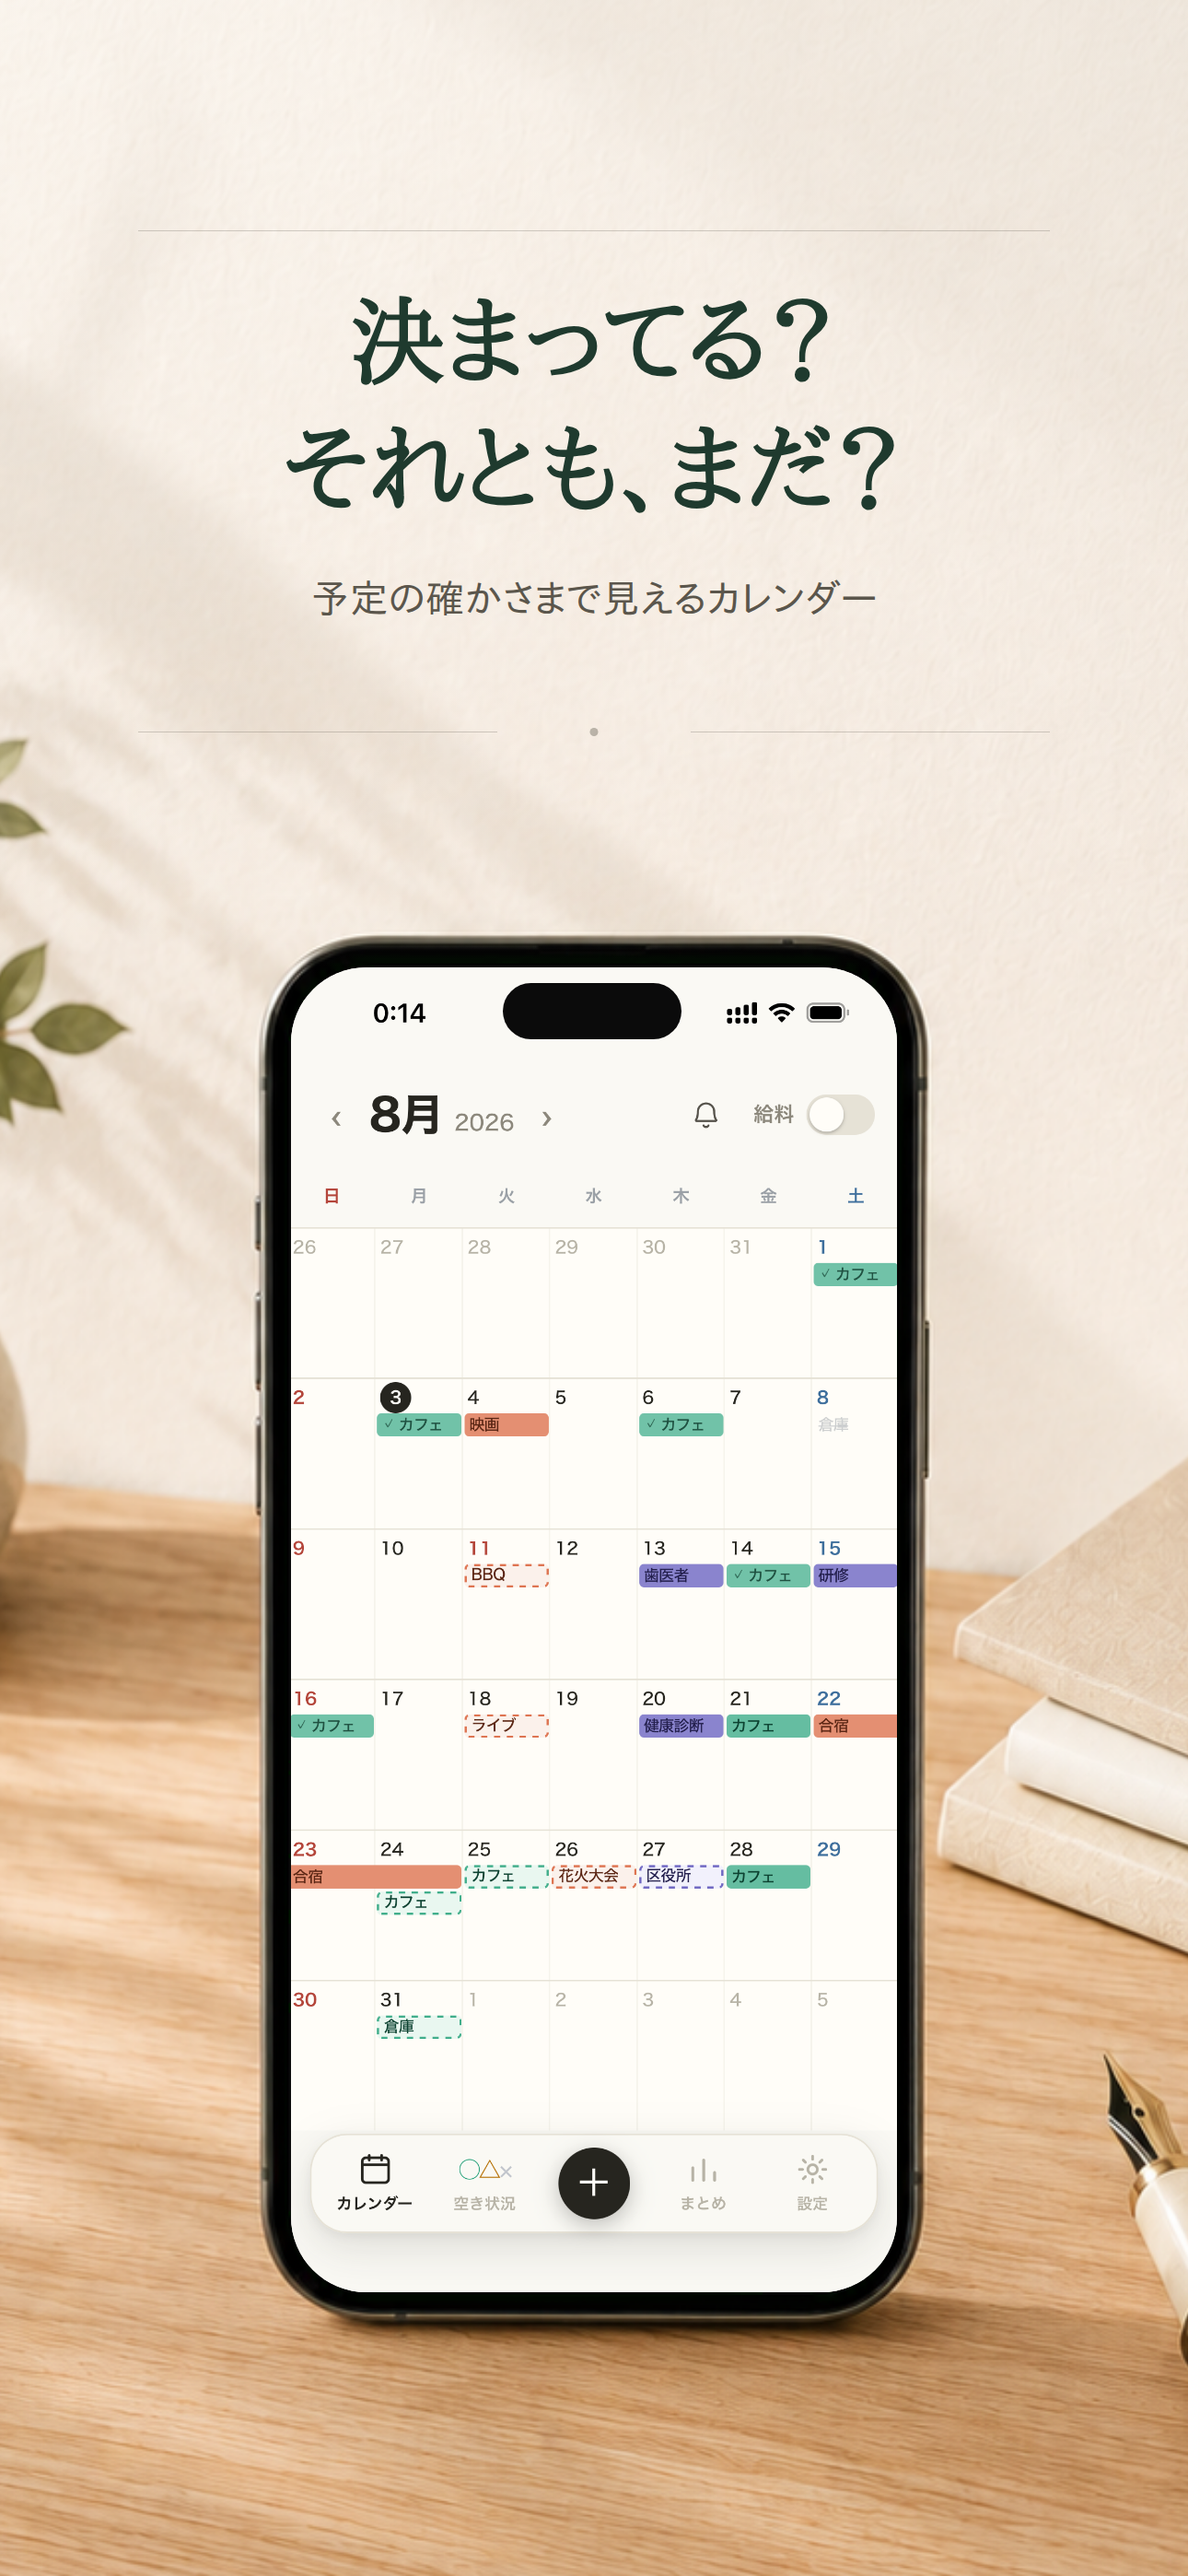
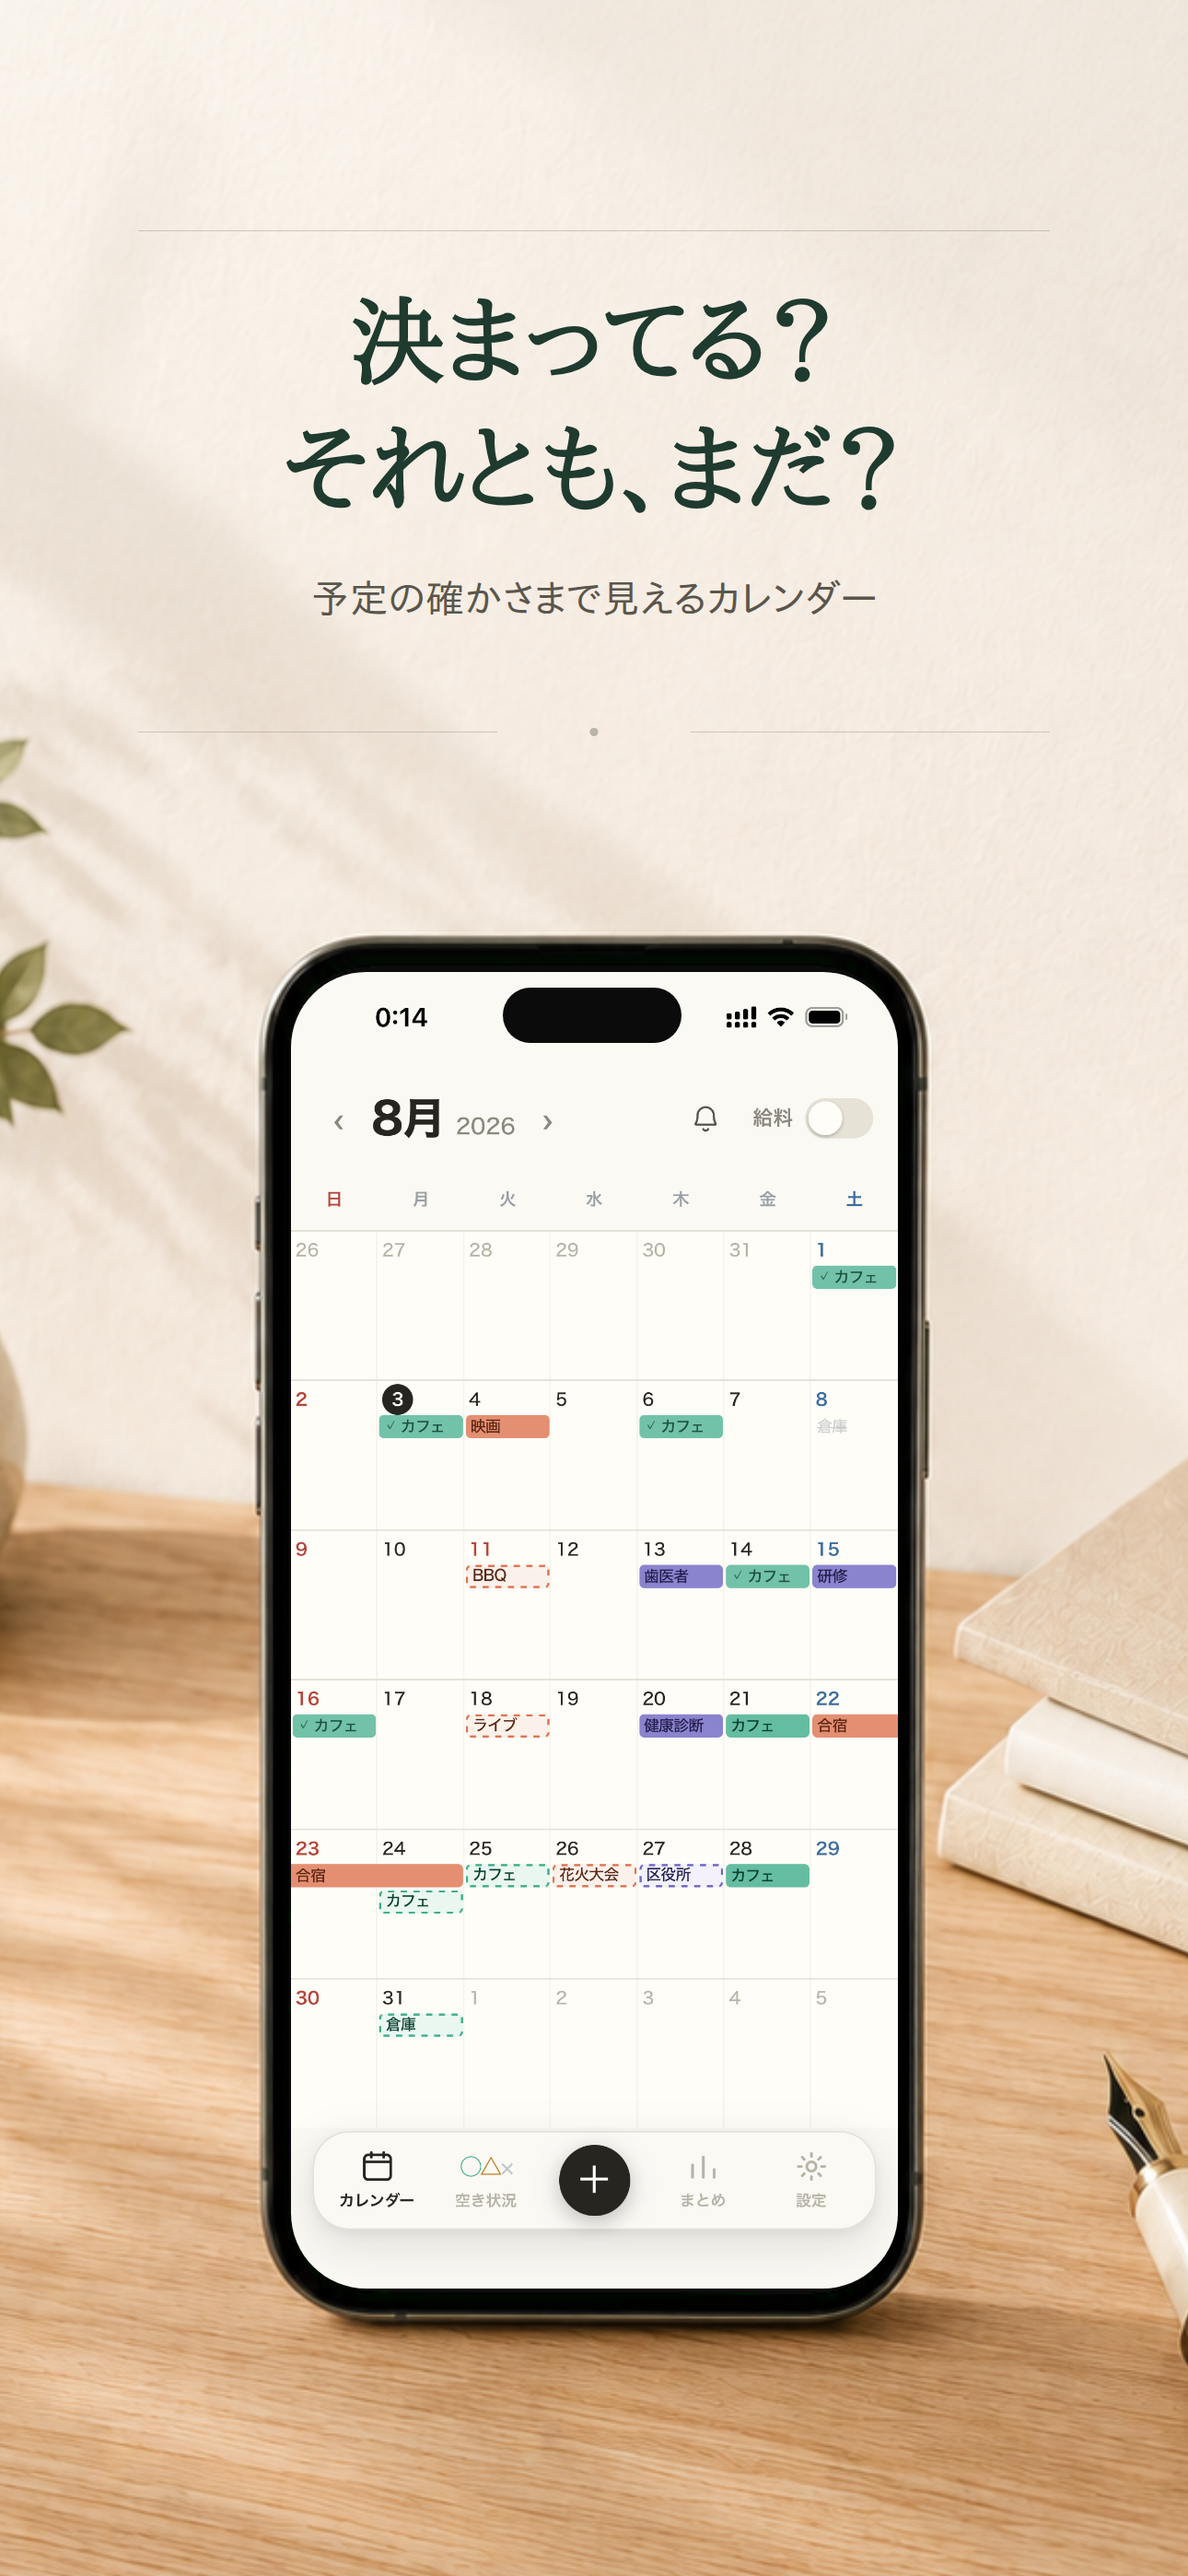
掲載画像の背景を2種類にし、画面が切れていたのを直す
5枚とも同じ背景だと一覧で単調に見えるので、背景を2種類にした。
1・2枚目が万年筆の机、3〜5枚目がノートと鉛筆の机。
一覧で見えるのは最初の2枚だけなので、そこは同じ絵で通して主張を固め、
後半で場面を変える。端末の大きさと高さは5枚とも揃えてあり、
「同じ撮影の別カット」に見えるようにしている（バラバラだと寄せ集めに見える）。

あわせて、画面の中身が左右で切れていたのを直した。

生成される端末は、画面の縦横比がまちまちだった。
  実機のキャプチャ  0.4613
  背景1の緑        0.4581  ← ほぼ一致
  背景2の緑        0.4360  ← 細長い
枠に合わせて切る（object-fit:cover）と、背景2では左右が38px切れ、
日付が「26」→「6」のように欠けていた。

比率を保ったまま上下中央に置き、余りは上下のベゼルの厚みとして見せる形にした。
引き伸ばす手もあったが、縦に5.8%伸びる。カレンダーの升目と文字が
わずかに縦長になるので、ベゼルが少し厚く見えるほうを選んだ。
5枚とも 659×1429・比率0.4612・伸び率1.000。

枠を下げたとき Dynamic Island が追従せず、ベゼル側に取り残されていたのも直した。

背景ごとの実測値（緑の領域・島の位置・角丸）は card.html の冒頭に置いてある。
背景を足すときはそこに入れる。

Claude-Session: https://claude.ai/code/session_01Lj7neatzxSibcNeHVWyy53

diff --git a/store-assets/store-cards-src/card.html b/store-assets/store-cards-src/card.html
@@ -1,68 +1,72 @@
 <!DOCTYPE html>
 <html lang="ja"><head><meta charset="UTF-8">
 <style>
-/* 背景は生成した写真（端末ごと）。緑ベタの領域だけを実機キャプチャに差し替える。
-   背景は 853×1844 なので cover で 1.51627 倍に拡大され、横に3.4px はみ出す（左に-1.7px） */
+/* 背景は生成した写真（端末ごと）。緑ベタだった領域に実機キャプチャを差し込む。
+   背景ごとに端末の位置・大きさが違うので、画面の幅が常に同じになるよう寄せる。 */
 *{margin:0;padding:0;box-sizing:border-box}
 html,body{width:1290px;height:2796px;overflow:hidden}
-.art{position:relative;width:1290px;height:2796px;overflow:hidden;
-  background:url("bg-phone-clean.png") no-repeat;
-  background-size:1293.4px 2796px; background-position:-1.7px 0;}
-
-/* 上の文字が乗る面を、ごくわずかに起こす */
+.art{position:relative;width:1290px;height:2796px;overflow:hidden;background-repeat:no-repeat}
 .veil{position:absolute;left:0;right:0;top:0;height:1060px;
-  background:linear-gradient(rgba(252,250,245,.46),rgba(252,250,245,.16) 70%,rgba(252,250,245,0));}
-
+  background:linear-gradient(rgba(252,250,245,.46),rgba(252,250,245,.16) 70%,rgba(252,250,245,0))}
 .rule{position:absolute;left:150px;right:150px;height:1px;background:rgba(60,55,45,.22);top:250px}
 .rule2{position:absolute;height:1px;background:rgba(60,55,45,.22);width:390px}
 .rule2.l{left:150px} .rule2.r{right:150px}
 .dot{position:absolute;left:50%;transform:translateX(-50%);width:9px;height:9px;
   border-radius:50%;background:rgba(60,55,45,.32)}
-
 .head{position:absolute;left:96px;right:96px;text-align:center}
 h1{font-family:"IPAPMincho","IPAMincho",serif;font-size:104px;line-height:1.34;
    font-weight:700;color:#1F3A2E;letter-spacing:.01em}
 .sub{margin-top:34px;font-family:"IPAPGothic","IPAGothic",sans-serif;
    font-size:42px;line-height:1.75;color:#5B564C}
-
-/* 実測した緑の領域にキャプチャをはめる */
-.screen{position:absolute;left:430.4px;top:921.9px;width:464px;height:1013px;
-  overflow:hidden;border-radius:57.6px;background:#FAF9F4}
-.screen img{width:100%;height:100%;object-fit:cover;object-position:top;display:block}
-
-/* 島を写真から切り出して上に戻す（背景と同じ拡大率・位置で貼るとぴたりと合う） */
+.screen{position:absolute;overflow:hidden;background:#FAF9F4}
+.screen img{display:block;width:100%}
 .island{position:absolute;background:#0B0B0B;border-radius:999px}
 </style></head>
 <body>
 <div class="art">
-  <div class="veil"></div>
-  <div class="rule"></div>
+  <div class="veil"></div><div class="rule"></div>
   <div class="rule2 l" id="r2l"></div><div class="rule2 r" id="r2r"></div><div class="dot" id="dot"></div>
   <div class="head" id="head"><h1 id="h1"></h1><div class="sub" id="sub"></div></div>
-  <div class="screen"><img id="cap"></div>
-  <div class="island"></div>
+  <div class="screen" id="sc"><img id="cap"></div>
+  <div class="island" id="is"></div>
 </div>
 <script>
-  const p=new URLSearchParams(location.search);
-  // 1x のときの実測値（背景 853×1844 を cover で 1290×2796 に伸ばした座標）
-  const BW=1293.4, BH=2796, BX=-1.7;
-  const S={l:430.4,t:921.9,w:464,h:1013};        // 画面（緑だった領域）
-  const I={dx:162.3,dy:12.1,w:136.5,h:42.5};     // 島（画面の左上からの相対）
-  const k=Number(p.get('zoom')||1);
-  const sw=S.w*k, sh=S.h*k;
-  const sl=(1290-sw)/2, st=Number(p.get('py')||S.t);
-  const art=document.querySelector('.art');
-  art.style.backgroundSize=(BW*k)+'px '+(BH*k)+'px';
-  art.style.backgroundPosition=(sl-(S.l-BX)*k)+'px '+(st-S.t*k)+'px';
-  const sc=document.querySelector('.screen');
-  sc.style.cssText+=`left:${sl}px;top:${st}px;width:${sw}px;height:${sh}px;border-radius:${57.6*k}px`;
-  const is=document.querySelector('.island');
-  is.style.cssText+=`left:${sl+I.dx*k}px;top:${st+I.dy*k}px;width:${I.w*k}px;height:${I.h*k}px`;
-  h1.innerHTML=(p.get('h')||'').replace(/\|/g,'<br>');
-  sub.innerHTML=(p.get('s')||'').replace(/\|/g,'<br>');
-  cap.src=p.get('cap')||'cap-1096.png';
-  head.style.top=(p.get('ht')||'300')+'px';
-  const dt=Number(p.get('dt')||790);
-  dot.style.top=dt+'px'; r2l.style.top=(dt+4)+'px'; r2r.style.top=(dt+4)+'px';
+// 背景ごとの実測値。緑の領域・島の位置・画面の角丸を、写真から測って入れてある。
+// 背景を差し替えたら測り直すこと（tools の計測スクリプトが同じ形の値を出す）。
+const BG = {
+  bg1: {img:'bg1-clean.png', BW:1293.4, BH:2796, BX:-1.7,
+        S:{l:430.4,t:921.9,w:464.0,h:1012.9}, I:{dx:162.2,dy:12.1,w:136.5,h:42.5}, r:57.6},
+  bg2: {img:'bg2-clean.png', BW:1293.4, BH:2796, BX:-1.7,
+        S:{l:439.5,t:935.5,w:418.5,h:959.8}, I:{dx:150.1,dy:12.1,w:122.8,h:39.4}, r:57.6},
+  bg3: {img:'bg3-clean.png', BW:1293.4, BH:2796, BX:-1.7,
+        S:{l:441.1,t:920.4,w:438.2,h:982.5}, I:{dx:157.7,dy:12.1,w:127.4,h:40.9}, r:60.7},
+};
+const p=new URLSearchParams(location.search);
+const b=BG[p.get('bg')||'bg1'];
+// 5枚で端末の大きさと高さをそろえる。背景ごとに元の大きさが違うので、ここで吸収する。
+const TARGET_W=Number(p.get('sw')||659), TOP=Number(p.get('py')||1050);
+const k=TARGET_W/b.S.w;
+const sw=b.S.w*k, sh=b.S.h*k, sl=(1290-sw)/2;
+const art=document.querySelector('.art');
+art.style.backgroundImage=`url("${b.img}")`;
+art.style.backgroundSize=(b.BW*k)+'px '+(b.BH*k)+'px';
+art.style.backgroundPosition=(sl-(b.S.l-b.BX)*k)+'px '+(TOP-b.S.t*k)+'px';
+const CAP_RATIO=1179/2556;          // 実機キャプチャの縦横比
+const fit=p.get('fit')||'stretch';
+const imgH=sw/CAP_RATIO;            // 幅を合わせたときのキャプチャの高さ
+let boxTop=TOP, boxH=sh;
+if(fit==='keep'){ boxH=imgH; boxTop=TOP+(sh-imgH)/2; }   // 余りは上下に均等（＝ベゼルが厚く見える）
+Object.assign(sc.style,{left:sl+'px',top:boxTop+'px',width:sw+'px',height:boxH+'px',
+  borderRadius:(b.r*k)+'px'});
+cap.style.height = fit==='stretch' ? sh+'px' : 'auto';
+if(fit==='stretch') cap.style.width=sw+'px';
+Object.assign(is.style,{left:(sl+b.I.dx*k)+'px',top:(boxTop+b.I.dy*k)+'px',
+  width:(b.I.w*k)+'px',height:(b.I.h*k)+'px'});
+h1.innerHTML=(p.get('h')||'').replace(/\|/g,'<br>');
+sub.innerHTML=(p.get('s')||'').replace(/\|/g,'<br>');
+cap.src=p.get('cap')||'cap-1096-full.png';
+head.style.top=(p.get('ht')||'300')+'px';
+const dt=Number(p.get('dt')||790);
+dot.style.top=dt+'px'; r2l.style.top=(dt+4)+'px'; r2r.style.top=(dt+4)+'px';
 </script>
 </body></html>
